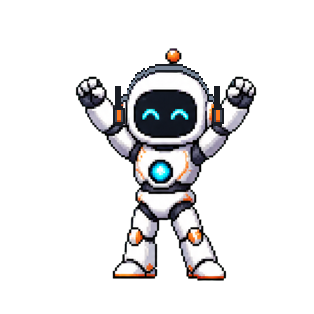
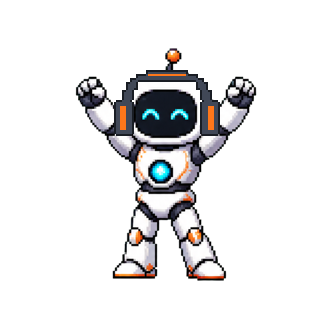
Make the headphones and cape read at small sizes

Changed region(s): [[0.3439, 0.2006, 0.7166, 0.4586]]

diff --git a/iOS/Tools/make-mood-frames.swift b/iOS/Tools/make-mood-frames.swift
@@ -225,7 +225,7 @@ let clips = hello["clips"] as! [String: [[Any]]]
 let required = Set(clips.values.flatMap { $0 }.map { $0[0] as! String } + [hello["rest"] as! String])
 precondition(required == Set(files.map { $0.deletingPathExtension().lastPathComponent }))
 let sleepy = rgb(105, 146, 168), bright = rgb(73, 235, 255), glint = rgb(219, 255, 255)
-let outline = rgb(25, 29, 36), shadow = rgb(65, 72, 87), steel = rgb(117, 131, 150)
+let outline = rgb(25, 29, 36), shadow = rgb(65, 72, 87)
 let orange = rgb(255, 119, 26), amber = rgb(195, 75, 20)
 var previews = [(String, Bitmap)]()
 var blinks = [(String, Bitmap)]()
@@ -332,27 +332,53 @@ precondition(headRight - headLeft < 2 * v.width, "Head detection includes arms")
 let head = Bounds(x0: headLeft, y0: headTop, x1: headRight, y1: v.y1 + 4 * u)
 print("Accessory head: \(head)")
 
-// Kulaklik yayi, bas sinirindan turetilen basamakli bir konturdur.
+// Kalin bas bandi ve kulak kaplari, sanat pikseliyle tek bir siluet olusturur.
 do {
     var d = Drawing(source)
-    let left = head.x0 - 3 * u, right = head.x1 + 3 * u
-    let top = head.y0 - 3 * u, bottom = f.eyes[0].midY + 6 * u
-    let region = Bounds(x0: left - 2 * u, y0: top, x1: right + 2 * u, y1: bottom)
-    for x in stride(from: head.x0, through: head.x1, by: u) {
-        let sampleX = min(x + u / 2, head.x1)
-        guard let shellY = (head.y0...f.eyes[0].midY).first(where: { source[sampleX, $0].a > 200 })
-        else { fatalError("Missing head contour") }
-        let y = head.y0 + ((shellY - head.y0) / u) * u
-        d.rect(Bounds(x0: x, y0: y - 3 * u, x1: x + u - 1, y1: y + u - 1), outline)
-        d.rect(Bounds(x0: x, y0: y - 2 * u, x1: x + u - 1, y1: y - 1), steel)
+    let left = v.x0 - 10 * u, top = head.y0
+    let columns = 53, rows = 33
+    let region = Bounds(x0: left, y0: top,
+                        x1: left + columns * u - 1, y1: top + rows * u - 1)
+    var silhouette = Set<Int>()
+    for row in 0..<rows {
+        let inset: Int
+        switch row {
+        case 0..<2: inset = 16
+        case 2..<4: inset = 11
+        case 4..<6: inset = 8
+        case 6..<10: inset = 6
+        case 10..<15: inset = 4
+        default: inset = 3
+        }
+        for col in inset..<(columns - inset) {
+            if row < 6 || col < inset + 6 || col >= columns - inset - 6 {
+                silhouette.insert(row * columns + col)
+            }
+        }
+        if row >= 15 {
+            let corner = row == 15 || row == rows - 1 ? 1 : 0
+            for col in corner..<(10 - corner) {
+                silhouette.insert(row * columns + col)
+                silhouette.insert(row * columns + columns - 1 - col)
+            }
+        }
     }
-    for x in [left, right - 3 * u] {
-        d.rect(Bounds(x0: x, y0: top + 11 * u, x1: x + 3 * u - 1, y1: bottom - 4 * u), outline)
-        d.pattern([".####.", "######", "#soos#", "#soos#", "#soos#", "#soos#", "#soos#", "#saas#", "######", ".####."],
-                  x: x - u, y: bottom - 10 * u, unit: u,
-                  palette: ["#": outline, "s": shadow, "o": orange, "a": amber])
+    for cell in silhouette {
+        let col = cell % columns, row = cell / columns
+        let edge = [(col - 1, row), (col + 1, row), (col, row - 1), (col, row + 1)]
+            .contains { x, y in
+                x < 0 || x >= columns || y < 0 || y >= rows || !silhouette.contains(y * columns + x)
+            }
+        let accent = (row >= 18 && row < 30 && (3...5 ~= col || 47...49 ~= col)) ||
+            (row == 2 && (17...35).contains(col))
+        d.rect(Bounds(x0: left + col * u, y0: top + row * u,
+                      x1: left + (col + 1) * u - 1, y1: top + (row + 1) * u - 1),
+               edge ? outline : (accent ? orange : shadow))
     }
-    let result = d.save("acc-headphones", to: directory, unit: u, regions: [region]) { x, y in region.contains(x, y) }
+    let result = d.save("acc-headphones", to: directory, unit: u, regions: [region]) { x, y in
+        precondition(!v.contains(x, y) && y >= head.y0, "Headphones cover visor or antenna")
+        return region.contains(x, y)
+    }
     previews.append(("HEADPHONES", result))
 }
 
@@ -408,19 +434,20 @@ do {
     previews.append(("MUG", result))
 }
 
-// Kisa pelerin omuzlarin arkasinda, bel hizasinda biter.
+// Tek parca pelerin omuzlardan diz altina iner; robotun tum pikselleri onde kalir.
 do {
     var d = Drawing(source)
-    let top = v.y1 + 4 * u, rows = 29
+    let top = v.y1 + 4 * u, rows = 60
     let center = f.core.midX, half = (head.width / u) / 2 - 5
+    let capeOrange = rgb(218, 91, 23)
     let region = Bounds(x0: center - (half + 12) * u, y0: top,
-                        x1: center + (half + 12) * u, y1: top + rows * u - 1)
+                        x1: center + (half + 13) * u - 1, y1: top + rows * u - 1)
     for row in 0..<rows {
-        let spread = half + row * 12 / rows
+        let spread = half + min(row, rows - 5) * 12 / (rows - 5)
         for col in -spread...spread {
-            let edge = abs(col) >= spread - 1 || row >= rows - 2
-            let fold = abs(col) < half || (abs(col) + row / 4) % 9 < 2
-            let color = edge ? outline : (fold ? amber : orange)
+            let edge = abs(col) == spread || row == 0 || row == rows - 1
+            let fold = abs(col) == half + row * 6 / rows
+            let color = edge ? outline : (fold ? amber : capeOrange)
             d.rect(Bounds(x0: center + col * u, y0: top + row * u,
                           x1: center + (col + 1) * u - 1, y1: top + (row + 1) * u - 1), color, behind: true)
         }
